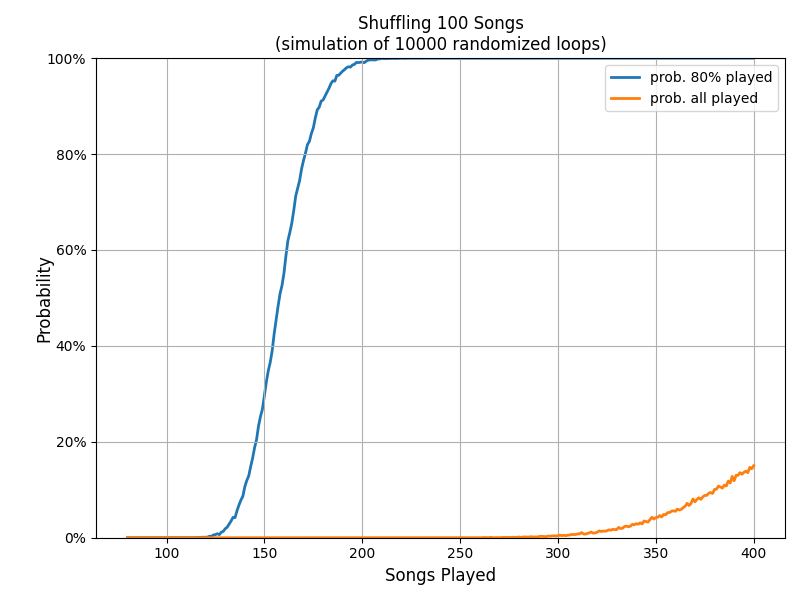
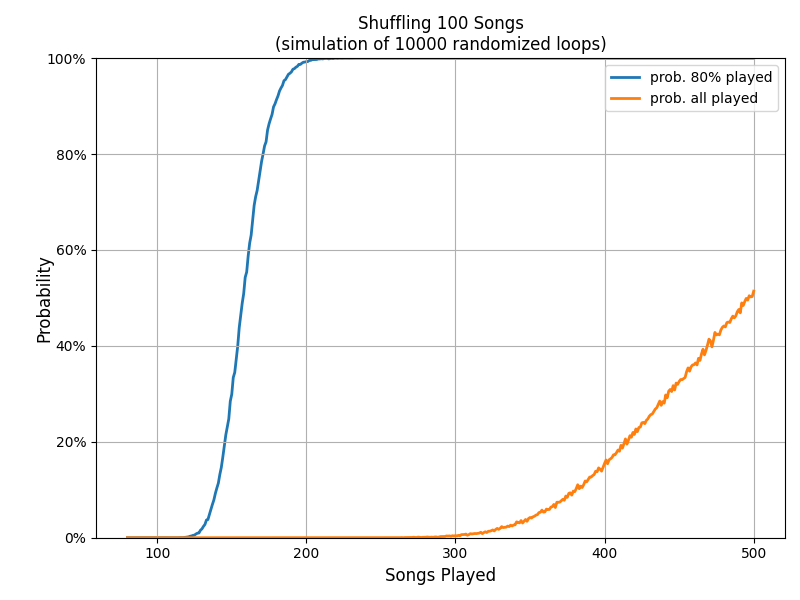
chart x range

diff --git a/shuffle-music/shuffle-music-random.py b/shuffle-music/shuffle-music-random.py
@@ -78,7 +78,7 @@ def loop_over_rand_playorders(total_songs: int, num_songs_played: int, num_test_
 
 
 if __name__ == '__main__':
-    total_songs = 100
+    total_songs = 20
     num_test_loops = 1000
     time_start = time.time()
 
@@ -95,7 +95,7 @@ if __name__ == '__main__':
     # multi processing
     pool = multiprocessing.Pool(processes=multiprocessing.cpu_count()-1)
     l_pile_of_work = []
-    for num_songs_played in range(int(total_songs*0.8), int(4*total_songs+1)):
+    for num_songs_played in range(int(total_songs*0.8), int(5*total_songs+1)):
         L2 = (total_songs, num_songs_played, num_test_loops)
         l_pile_of_work.append(L2)
     results = pool.starmap(loop_over_rand_playorders, l_pile_of_work)
